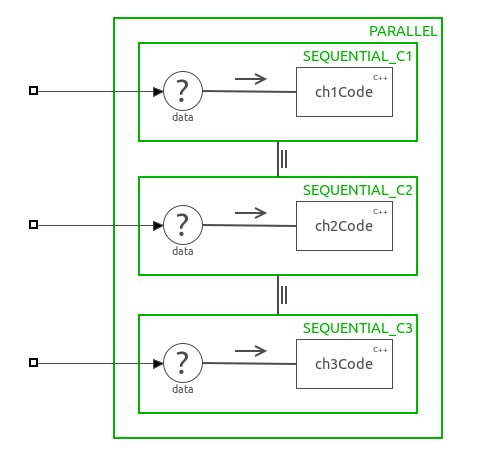
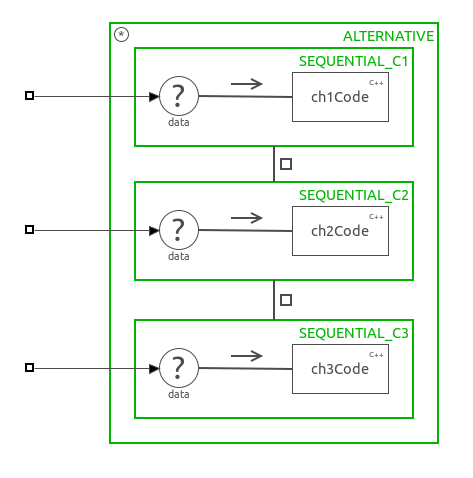
1.2 af.
Code toegevoegd en antwoorden wat toegelicht.

Changed region(s): [[0.0296, 0.0305, 0.9471, 0.976], [0.4144, 0.1525, 0.6216, 0.244]]

diff --git a/ex1.tex b/ex1.tex
@@ -321,65 +321,152 @@ The composition $A ||| B$ does not deadlock. Whichever process gets to execute i
 
 \subsection{}
 \subsubsection{}
-Figure~\ref{fig:typicalcspoverview} and Figure~\ref{fig:typicalcsp} (a, b, c) 
-reveal the solution for exercise 2.1. An overview is presented, along with the 
-producer and consumer sub-models.
-Furthermore, a screendump of the result of FDR after checking said model is added.
+See Figure~\ref{fig:typicalcspoverview} and Figure~\ref{fig:typicalcsp} (a, b, c) for some screenshots of the model.
+We chose to implement three channels.
+
 \subsubsection{}
-Figure~\ref{fig:typicalcspoutput} shows the output of the program.
+See Codeblock~\ref{code:2_1PCode} for the code of C++ code block PCode. The other code blocks in the program are of no interest, because they merely print their input variable.
+\smallskip
+
+Figure~\ref{fig:typicalcspoutput} shows some of the output of the program after extending it with C++ code.
+
+The decision was made to have the program send each of the three values once. 
+After sending the prompt appears again.
+
+The guards on the producer side (see Figure~\ref{fig:typicalcsp} a) are configured 
+in the model in such a way that a value '1' gets send to channel 1, value '2' to channel 2 and value '3' to channel 3.
+Any other value that is entered will result in the "Prullenbak" C++ code being executed.
+
+Note that some of the messages are out of order, the same stuff is happening as discussed in exercise 1.1.3.
+
+In short, order we see occurs because the top producer and consumer process are linked in parallel.
+The communication of the consumer/producer processes are synchronized, but not the code being executed in their internal C++ code blocks.
+
 \subsubsection{}
-Figure~\ref{fig:typicalcspoutputrobust} shows that the prompt makes sure that distinct values are entered.
+Note that in Figure~\ref{fig:typicalcsp}a a C++ codeblock is added called "Prullenbak".
+
+This "Prullenbak" C++ code block is executed only when none of the other guard expressions in the ALTERNATIVE block apply.
+The function of "Prullenbak" is to catch and print input data that is not to be send to the consumer, it is a garbage can.
+
+
 \subsubsection{}
-It is useful to implement and test the process structure first before doing the
-programming functionality, for the reason that a change in the process structure
-could influence the implementation.
-At the start of a project, the model is expected to change frequently.
+It is wise to start with the process-structure before implementing C++ code.
+
+Generally, if you have to choose, you want most of the functionality in the model instead of in C++ code blocks.
+The model also serves as documentation. Making sure the model is of decent quality first helps in containing most of the functionality in the model instead of the C++ code.
+
 \subsubsection{}
+The method we chose to implement is to add another guard that is triggered when none of the other guards are triggered. It is a garbage bin exit.
+\smallskip
+
+Another possible method is to copy the guard logic of the alternative blocks in the producer (see Figure~\ref{fig:typicalcsp}) to the "PCode" C++ code block, 
+and do a check on the input data to make sure it it checks out with your guard logic.
+This idea is less desired, because now you have the guard logic in \textit{two} places: in the model and in the C++ code.
+
+You could also remove the alternative structure, have only one instead of three channels, and put all your guard logic in the first C++ code block (PCode).
+This idea makes the program harder to understand, so not recommended.
+
+\begin{lstlisting}[caption=Producer/PCode.cpp, label=code:2_1PCode, language=C++]
+/**
+ * Source file for the PCode model
+ * Generated by the TERRA CSPm2LUNA generator version 1.1.1
+ *
+ * protected region document description on begin
+ *
+ * protected region document description end
+ */
+
+#include "Producer/PCode.h"
+// protected region additional headers on begin
+#include <stdio.h>
+#include <iostream>
+#include <algorithm>
+// Each additional header should get a corresponding dependency in the Makefile
+// protected region additional headers end
+
+namespace MainModel { namespace Producer { namespace PCode { 
+
+PCode::PCode(int &peer) :
+    CodeBlock(), peer(peer){
+  SETNAME(this, "PCode");
+
+  // protected region constructor on begin
+  // protected region constructor end
+}
+
+PCode::~PCode()
+{
+  // protected region destructor on begin
+  // protected region destructor end
+}
+
+void PCode::execute()
+{
+  // protected region execute code on begin
+	static int index = 3;
+
+	if (index > 2) {
+		index = 0;
+		while (!initialize()) {
+			printf("Numbers not distinct.\n");
+		}
+	}
+	printf("P1->Sending %d\n", vars[index]);
+	this->peer = vars[index++];
+  // protected region execute code end
+}
+
+// protected region additional functions on begin
+bool PCode::initialize(void)
+{
+	printf("Enter 3 numbers\n");
+	while (scanf("%i", &vars[0]) != 1) {}
+	while (scanf("%i", &vars[1]) != 1) {}
+	while (scanf("%i", &vars[2]) != 1) {}
+
+	std::sort(vars, vars+3);
+
+	printf("I got: %i, %i, %i\n", vars[0], vars[1], vars[2]);
+	if (vars[0] == vars[1] || vars[0] == vars[2] || vars[1] == vars[2])
+		return false;
+	else
+		return true;
+}
+// protected region additional functions end
+
+// Close namespace(s)
+} } } 
+\end{lstlisting}
 
 \begin{figure}
- \centering
- \includegraphics[scale=0.7]{./images/2-1_overview.png}
- \caption{Overview diagram of the multiple channel producer consumer system.}
- \label{fig:typicalcspoverview}
- \begin{subfigure}{0.5\textwidth}
-  \centering
-  \includegraphics[width=\textwidth]{./images/2-1_producer.png}
-	\caption{The producer process.}
- \end{subfigure}%
- \begin{subfigure}{0.5\textwidth}
-  \centering
-  \includegraphics[width=\textwidth]{./images/2-1_consumer.png}
-  \caption{The consumer process.}
- \end{subfigure}
- \begin{subfigure}{0.7\textwidth}
-	 \centering
-	 \includegraphics[width=\textwidth]{./images/2-1_fdr.png}
-	 \caption{Deadlock free.}
- \end{subfigure}
- \caption{The CSP model of exercise 1.2.}
- \label{fig:typicalcsp}
-\end{figure}
-
-\begin{figure}
+	\centering
+	\includegraphics[scale=0.7]{./images/2-1_overview.png}
+	\caption{Overview diagram of the multiple channel producer consumer system.}
+	\label{fig:typicalcspoverview}
 	\begin{subfigure}{0.5\textwidth}
 		\centering
-		\includegraphics[width=\textwidth]{./images/2-1-output1.png}
-		\caption{When the program starts it asks for three numbers.}
-	\end{subfigure}
+		\includegraphics[width=\textwidth]{./images/2-1_producer.png}
+		\caption{The producer process.}
+	\end{subfigure}%
 	\begin{subfigure}{0.5\textwidth}
 		\centering
-		\includegraphics[width=\textwidth]{./images/2-2_output2.png}
-		\caption{After pressing enter, the producers/consumers print messages.}
+		\includegraphics[width=\textwidth]{./images/2-1_consumer.png}
+		\caption{The consumer process.}
 	\end{subfigure}
-	\caption{Output of the C++ program.}
-	\label{fig:typicalcspoutput}
+	\begin{subfigure}{0.7\textwidth}
+		\centering
+		\includegraphics[width=\textwidth]{./images/2-1_fdr.png}
+		\caption{Deadlock free.}
+	\end{subfigure}
+	\caption{The CSP model of exercise 1.2.}
+	\label{fig:typicalcsp}
 \end{figure}
 
 \begin{figure}
 	\centering
-	\includegraphics[width=\textwidth]{./images/2-3-robust.png}
-	\caption{The program will ask again if they not happen to be distinct.}
-	\label{fig:typicalcspoutputrobust}
+	\includegraphics[width=\textwidth]{./images/2-1_output.png}
+	\caption{Output of the program exercise 1.2.}
+	\label{fig:typicalcspoutput}
 \end{figure}
 
 
